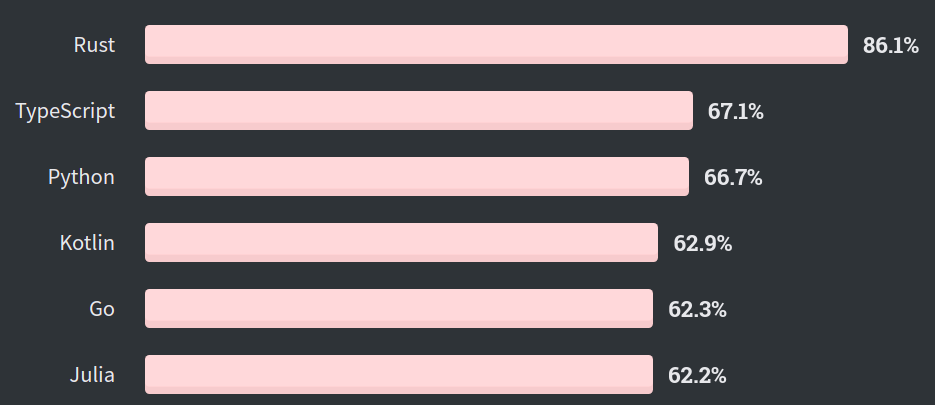
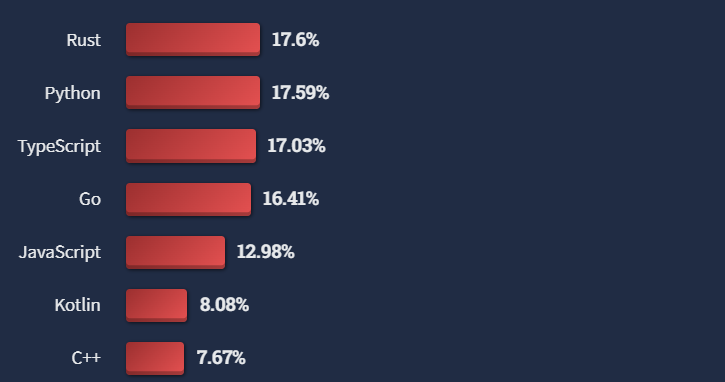
Added an extra repl Formatting for show files button Added 3 footnotes Cleaned mkdocs.yml Changed stackoverflow survey image

diff --git a/docs/chapter-0/lesson-0.md b/docs/chapter-0/lesson-0.md
@@ -10,35 +10,48 @@ for number in range(1, 101):
 print(sum)
 ```
 
-Do not worry too much about how the code work right now, we'll get into that over the course of the book. But now let's address a question you might have right now - why do we need to complicate things with programming languages to tell the computer what to do when we have simple applications like calculators that can do the same? Let's do a boring experiment: Let's add all the numbers from $1$ through $100$ on a calculator. How long did it take you? Now let's run the following program 
+Do not worry too much about how the code works right now, we'll get into that over the course of the book. But now let's address a question you might have right now - why do we need to complicate things with programming languages to tell the computer what to do when we have simple applications like calculators that can do the same? Let's do a boring experiment: Let's add all the numbers from $1$ through $100$ on a calculator. How long did it take you? Now let's run the following program: 
 
 <iframe frameborder="0" width="100%" height="300px" src="https://replit.com/@BharathValaboju/sum-of-first-hundred-numbers?embed=true"></iframe>
 
+How long did this code take you? Blazingly fast, isn't it? That's what coding enables you to do - Create ingenious solutions to problems. Programming also enables you to create applications. Applications like calculator that are designed for use by non-coders are created using code. Consider the following simple application. It takes two numbers as input and prints out their sum.
+
+<iframe frameborder="0" width="100%" height="300px" src="https://replit.com/@BharathValaboju/simple-adder?embed=true"></iframe>
+
+The codes for these programs are in `main.py` files which you can view by pressing the <span class="keys">
+  <kbd>
+    <svg preserveAspectRatio="xMidYMin" width="16" height="16" viewBox="0 0 24 24" fill="currentColor" aria-hidden="true" class="css-1gcl232" style="vertical-align: middle;">
+      <path fill-rule="evenodd" clip-rule="evenodd" d="M2.25 4.5C2.25 3.25736 3.25736 2.25 4.5 2.25H19.5C20.7426 2.25 21.75 3.25736 21.75 4.5V7.5C21.75 8.07627 21.5334 8.60193 21.1771 9C21.5334 9.39807 21.75 9.92373 21.75 10.5V13.5C21.75 14.0763 21.5334 14.6019 21.1771 15C21.5334 15.3981 21.75 15.9237 21.75 16.5V19.5C21.75 20.7426 20.7426 21.75 19.5 21.75H8.5C7.25736 21.75 6.25 20.7426 6.25 19.5V16.5C6.25 15.9237 6.46664 15.3981 6.82292 15C6.46664 14.6019 6.25 14.0763 6.25 13.5V10.5C6.25 10.237 6.29512 9.98458 6.37803 9.75H4.5C3.25736 9.75 2.25 8.74264 2.25 7.5V4.5ZM19.5 8.25C19.9142 8.25 20.25 7.91421 20.25 7.5V4.5C20.25 4.08579 19.9142 3.75 19.5 3.75H4.5C4.08579 3.75 3.75 4.08579 3.75 4.5V7.5C3.75 7.91421 4.08579 8.25 4.5 8.25H19.5ZM8.5 9.75C8.08579 9.75 7.75 10.0858 7.75 10.5V13.5C7.75 13.9142 8.08579 14.25 8.5 14.25H19.5C19.9142 14.25 20.25 13.9142 20.25 13.5V10.5C20.25 10.0858 19.9142 9.75 19.5 9.75H8.5ZM19.5 15.75H8.5C8.08579 15.75 7.75 16.0858 7.75 16.5V19.5C7.75 19.9142 8.08579 20.25 8.5 20.25H19.5C19.9142 20.25 20.25 19.9142 20.25 19.5V16.5C20.25 16.0858 19.9142 15.75 19.5 15.75Z"></path>
+    </svg> Show files
+  </kbd>
+</span> button. Come back and go through the code when you have learned some python.
+
+
 ## Why learn Python?
 
-The strongest reason is utility. Python powers a large number of applications and is used by companies like Google, Netflix, Dropbox, Quora. A closely related reason is popularity. If a language is popular in the developer community, then there must be something good about it. In a recent [survey](https://insights.stackoverflow.com/survey/2020#technology-most-loved-dreaded-and-wanted-languages-loved) conducted by the company StackOverflow, Python was rated as the third most loved language.
+The strongest reason is utility. Python powers a large number of applications and is used by companies like Google, Netflix, Dropbox, Quora. A closely related reason is popularity. If a language is popular in the developer community, then there must be something good about it. In a 2022 [survey](https://survey.stackoverflow.co/2022/#most-loved-dreaded-and-wanted-language-want) conducted by the company StackOverflow, Python was rated as the second most wanted language.
  
 
 ![Stackoverflow survey](../assets/images/img-016.png)
 
 
-Around 66% of the 65,000 developers who responded to the survey are currently developing with Python and have expressed interest in continuing to develop with it. Another strong reason to learn Python is that it lets us create beautiful things such as this animation:
+Around 66% of the 65,000 developers who responded to the survey are currently developing with Python and have expressed interest in continuing to develop with it. Another strong reason to learn Python is that it lets us create beautiful things such as this animation[^1]:
 
 ![type:video](../assets/videos/sinx.mp4)
 
-Thanks to [Manim Community](https://docs.manim.community/en/v0.4.0/examples.html#special-camera-settings) for the source code. The code that was used to render this animation can be found [here](https://github.com/pypod/pypod.github.io/blob/main/code/lesson_0.py).
+[^1]: Thanks to [Manim Community](https://docs.manim.community/en/v0.4.0/examples.html#special-camera-settings) for the source code. The code that was used to render this animation can be found [here](https://github.com/pypod/pypod.github.io/blob/main/code/lesson_0.py).
 
-Being able to create something like this is the end goal of this course. Musicians create music; musical instruments are their tools. Painters create paintings; the brush and the canvas are their tools. Coders create software; programming languages are their tools. Python is one of the most versatile and accessible languages.  We will start from the basics and systematically cover the important aspects of the language. 
+Being able to create something like this is the end goal of this course. Musicians create music; musical instruments are their tools. Painters create paintings; the brush and the canvas are their tools. Coders create software; programming languages are their tools. Python is one of the most versatile and accessible languages out there. Python was designed to be human readable and easy while also being very powerful. This quality makes python the perfect first programming language. We will start from the basics and systematically cover the important aspects of the language. 
 
 !!! info "How easy is Python?"
-    Python has a vast collection of libraries that makes it easy to implement complex tasks. This is well described by this amazing comic that pops up when you enter `import antigravity` in IDLE.
+    Python has a vast collection of libraries that makes it easy to implement complex tasks. This is well described by this cheeky comic[^2] that pops up when you enter `#!py import antigravity` in IDLE.
 
 
     <div style="display: flex; justify-content: center">
         ![Python Web comic](https://imgs.xkcd.com/comics/python.png)
     </div>
 
-    *Credit to [xkcd.com](https://xkcd.com/353) for the comic*
+    [^2]: Credit to [xkcd.com](https://xkcd.com/353) for the comic
 
 
 
@@ -91,13 +104,14 @@ However, if you wish to use Python on your system, you can install it from [here
 
 ## History
 
-Python first appeared on the programming landscape 30 years ago, in February 1991. It was created as a hobby project by a Dutch programmer, Guido van Rossum. He served as the “[benevolent dictator for life](https://en.wikipedia.org/wiki/Benevolent_dictator_for_life)” of Python’s development until 2018, when he stepped down from the post.
+Python first appeared on the programming landscape 30 years ago, in February 1991. It was created as a hobby project by a Dutch programmer, Guido van Rossum. He served as the _[benevolent dictator for life](https://en.wikipedia.org/wiki/Benevolent_dictator_for_life)_ of Python’s development until 2018, when he stepped down from the post.
 
+<figure markdown>
+  ![Guido Van Rossum](../assets/images/guido.jpg)
+  <figcaption markdown>Guido Van Rossum at the Dropbox Headquarters in 2014[^3]</figcaption>
+</figure>
 
-![Guido Van Rossum](../assets/images/guido.jpg)
-
-
-Image-Source: [Wikipedia](https://en.wikipedia.org/wiki/Guido_van_Rossum#/media/File:Guido-portrait-2014-drc.jpg)
+[^3]: Image-Source: [Wikipedia](https://en.wikipedia.org/wiki/Guido_van_Rossum#/media/File:Guido-portrait-2014-drc.jpg)
 
 A popular question that gets asked often is how the language got its name. This is the answer from the official Python documentation:
 
